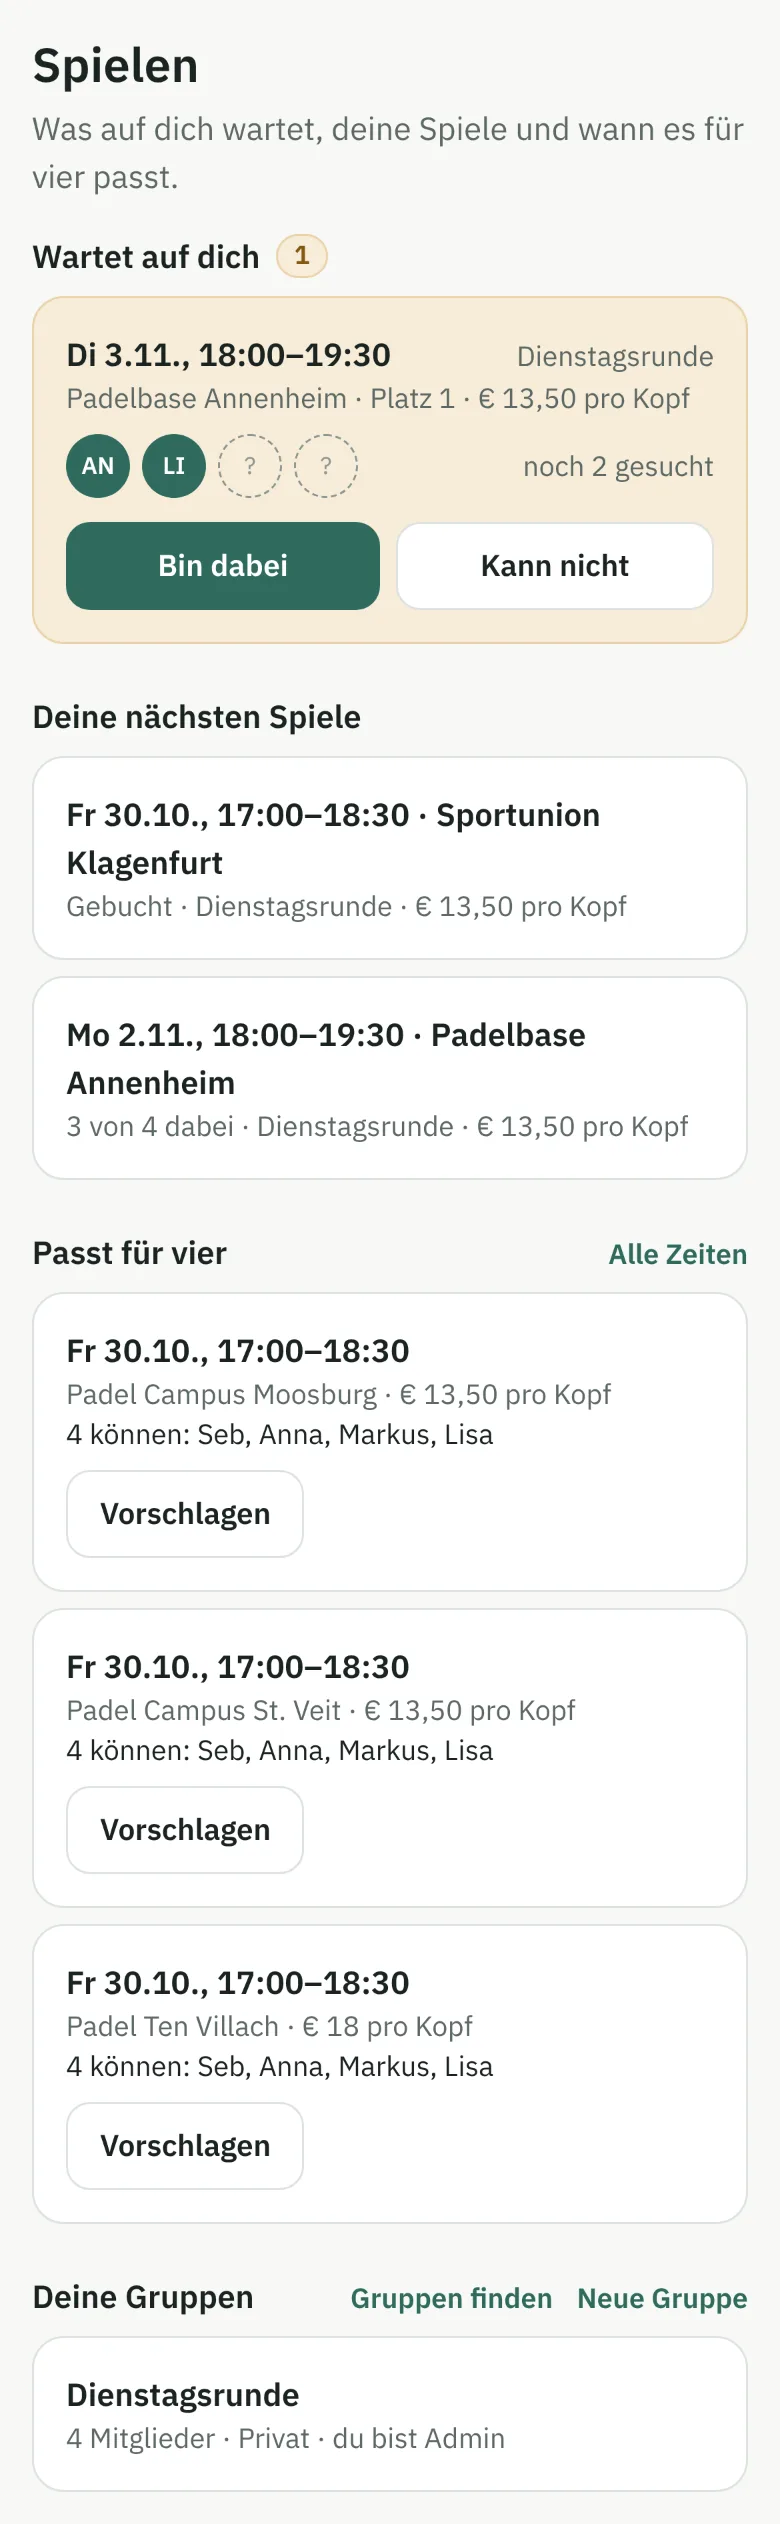
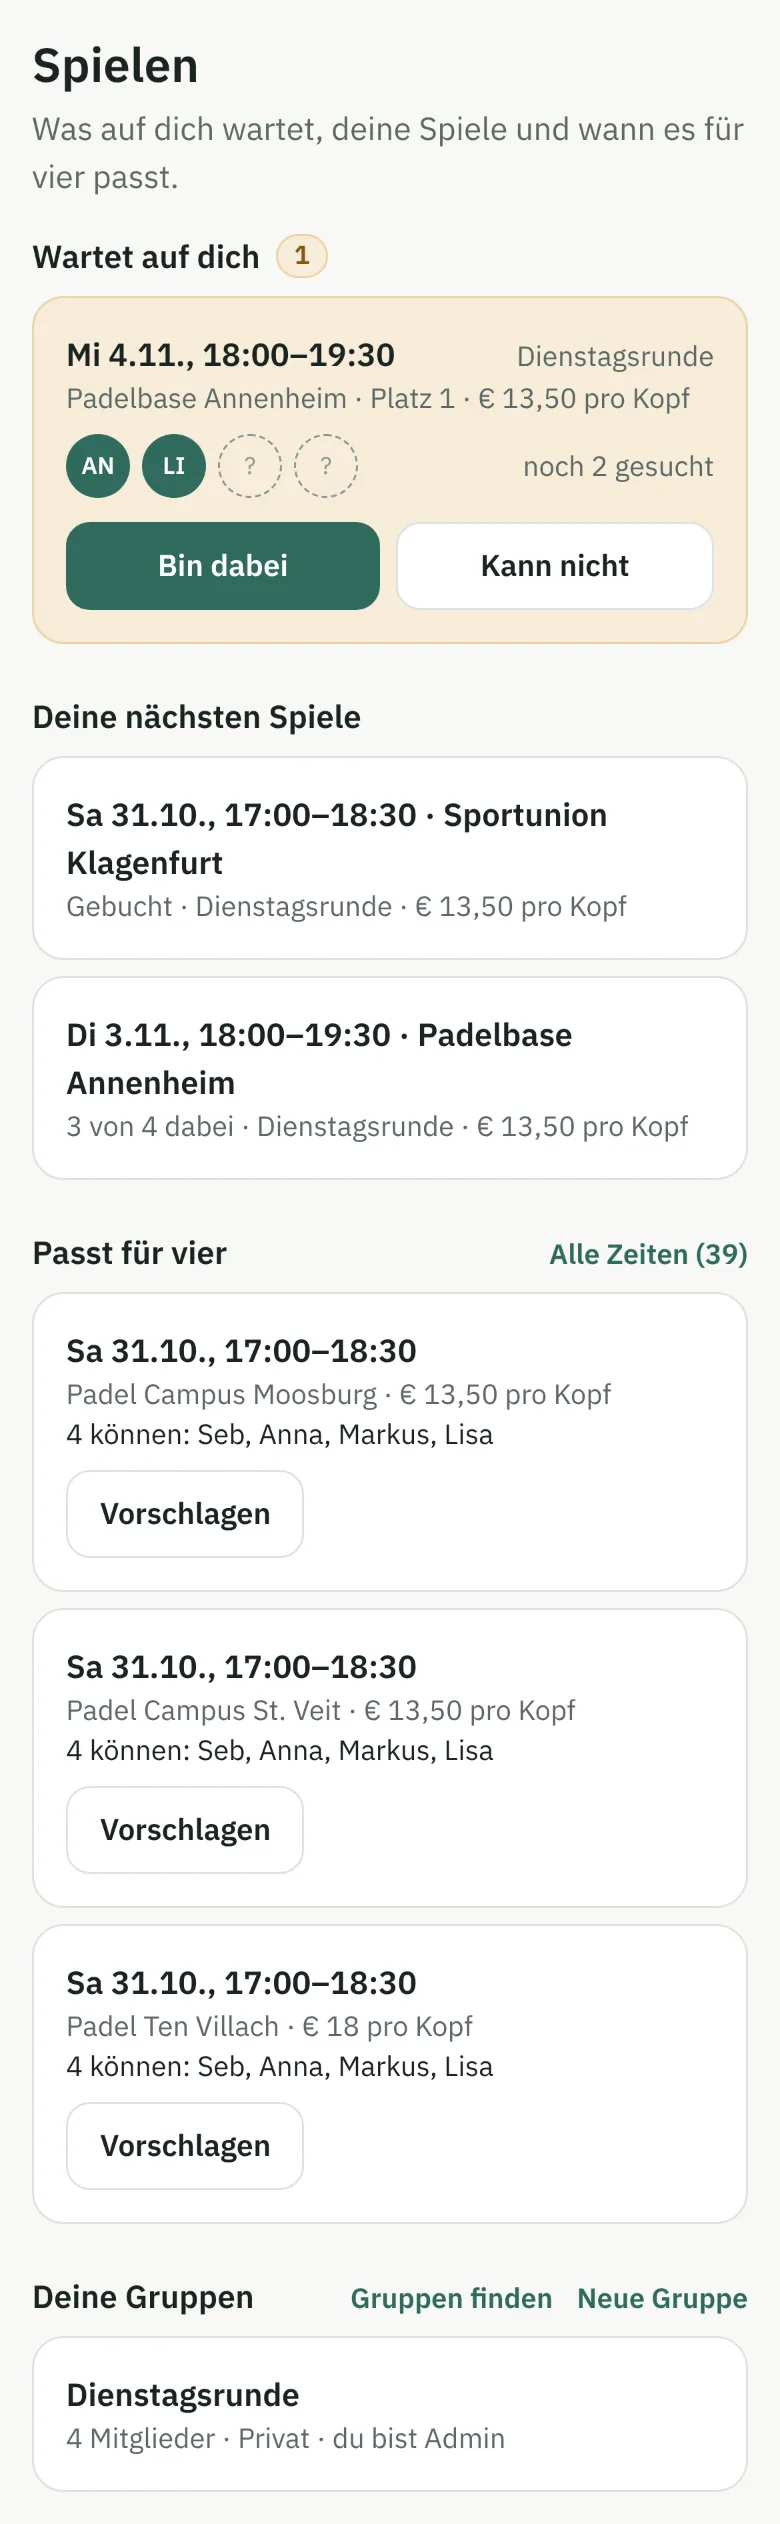
Alle Zeiten on Spielen opens every fit in a sheet
Why: Feedback #67 (Seb): Alle Zeiten on Spielen led into one group's
fits page, which made no sense there. Under Deine Gruppen, Gruppen finden
and Neue Gruppe wrapped to two lines on an iPhone and touched the card.
What: BestFits on Spielen shows Alle Zeiten (n) only when there are more
than three fits and opens them all, by day and from every group, in the
app's Sheet with Vorschlagen; the group's page keeps its link to its own
fits. The heading rows wrap as a whole and their links never break.
Hilfe text, help pictures of Spielen, games.md and a release note.
Checked: vitest (games, groups, App); phone screenshots light/dark and
at 320 px wide.
Thread: https://claude.ai/code/project/chan_014QcPHgeozJeG7xkT5y7Ejh?thread=cmsg_014QcPHgeozJeG7xkT5y7EjhWdLZYyvkfzftA1Ze1owgPe

diff --git a/services/app/src/games/BestFits.tsx b/services/app/src/games/BestFits.tsx
@@ -1,12 +1,17 @@
 // Passt für vier on Spielen (Seb, 2026-10-29): the soonest times, from
 // every group one is in, where four can and a court is free, one tap from
-// proposing; on a group's page the same for that group alone. The whole
-// list stays at the group's "Wann passt es für vier?" (Alle Zeiten).
+// proposing; on a group's page the same for that group alone. Alle Zeiten
+// on Spielen opens the whole list from every group in a sheet (Seb,
+// 2026-10-30: a link into one group's page made no sense there), shown only
+// when there is more than the three; on a group's page it is the group's
+// "Wann passt es für vier?".
 // Times already proposed as a game are left out. 90 minutes, the default
 // there; the snapshot is not refreshed here, the schedule keeps it fresh.
 import { useMutation, useQueries, useQuery, useQueryClient } from "@tanstack/react-query";
+import { useState } from "react";
 import { Link, useNavigate } from "react-router";
 import { api, ApiError, call, useWriteKey, type Fit } from "../api/client";
+import { Sheet } from "../Sheet";
 import { card, link, quiet } from "../ui";
 import { clock, dayLabel, errorText, euros, shown, span, useGames } from "./games";
 
@@ -38,6 +43,7 @@ export function BestFits({ group }: { group?: number }) {
     })),
   });
   const games = useGames();
+  const [all, setAll] = useState(false);
 
   const key = useWriteKey();
   const propose = useMutation({
@@ -72,29 +78,39 @@ export function BestFits({ group }: { group?: number }) {
       .filter((g) => g.state !== "cancelled")
       .map((g) => `${g.groupId}/${g.venueId}/${g.court}/${g.day}/${g.start}`),
   );
-  const picks: Pick[] = fits
+  const every: Pick[] = fits
     .flatMap((q, i) =>
       (q.data?.fits ?? []).map((f) => ({ f, groupId: mine[i]!.id, groupName: mine[i]!.name })),
     )
     .filter(
       (p) => !proposed.has(`${p.groupId}/${p.f.venueId}/${p.f.court}/${p.f.day}/${p.f.start}`),
     )
-    .sort((a, b) => a.f.day.localeCompare(b.f.day) || a.f.start - b.f.start)
-    .slice(0, SHOWN);
+    .sort((a, b) => a.f.day.localeCompare(b.f.day) || a.f.start - b.f.start);
+  const picks = every.slice(0, SHOWN);
   const loading = fits.some((q) => q.isPending);
   const failed = fits.length > 0 && fits.every((q) => q.isError);
   const one = mine.length === 1 ? mine[0]! : undefined;
 
   return (
     <section className="mb-6" aria-labelledby="best-fits">
-      <div className="mb-2 flex items-baseline justify-between">
+      <div className="mb-2 flex flex-wrap items-baseline justify-between gap-x-3">
         <h2 id="best-fits" className="font-semibold">
           Passt für vier
         </h2>
-        {one && (
-          <Link to={`/groups/${one.id}/fits`} className={`${link} text-sm`}>
+        {group !== undefined ? (
+          <Link to={`/groups/${group}/fits`} className={`${link} text-sm whitespace-nowrap`}>
             Alle Zeiten
           </Link>
+        ) : (
+          every.length > SHOWN && (
+            <button
+              type="button"
+              className={`${link} text-sm whitespace-nowrap`}
+              onClick={() => setAll(true)}
+            >
+              Alle Zeiten ({every.length})
+            </button>
+          )
         )}
       </div>
       {loading && picks.length === 0 && (
@@ -118,44 +134,87 @@ export function BestFits({ group }: { group?: number }) {
           </Link>
         </p>
       )}
-      {picks.length > 0 && (
-        <ul className="space-y-2">
-          {picks.map((p) => (
-            <li
-              key={`${p.groupId}-${p.f.venueId}-${p.f.court}-${p.f.day}-${p.f.start}`}
-              className={`${card} flex flex-wrap items-center justify-between gap-2 p-4`}
-            >
-              <div className="min-w-0">
-                <div className="font-semibold">
-                  {dayLabel(p.f.day)}, {span(p.f.start, p.f.minutes)}
-                </div>
-                <div className="text-sm text-ink-muted">
-                  {p.f.venueName}
-                  {p.f.perHead && ` · ${euros(p.f.perHead.amount)} pro Kopf`}
-                  {!one && ` · ${p.groupName}`}
-                </div>
-                <div className="text-sm">
-                  {p.f.can.length} können: {p.f.can.map(shown).join(", ")}
-                </div>
-              </div>
-              <button
-                type="button"
-                className={quiet}
-                disabled={propose.isPending}
-                aria-label={`${dayLabel(p.f.day)} ${clock(p.f.start)} in ${p.f.venueName} vorschlagen`}
-                onClick={() => propose.mutate(p)}
-              >
-                Vorschlagen
-              </button>
-            </li>
-          ))}
-        </ul>
-      )}
-      {propose.isError && (
+      {picks.length > 0 && <ul className="space-y-2">{picks.map((p) => row(p, true, !one))}</ul>}
+      {propose.isError && !all && (
         <p role="alert" className="mt-2 text-sm text-danger-text">
           {errorText(propose.error)}
         </p>
       )}
+      {all && (
+        <Sheet label="Alle passenden Zeiten" wide="float" onClose={() => setAll(false)}>
+          <h2 className="mb-1 text-lg font-semibold">Alle passenden Zeiten</h2>
+          <p className="mb-3 text-sm text-ink-muted">
+            {MINUTES} Minuten{mine.length > 1 ? ", aus all deinen Gruppen" : ""}.
+          </p>
+          {propose.isError && (
+            <p role="alert" className="mb-3 text-sm text-danger-text">
+              {errorText(propose.error)}
+            </p>
+          )}
+          {byDay(every).map(([day, list]) => (
+            <section key={day} className="mb-4">
+              <h3 className="mb-2 font-semibold">{dayLabel(day)}</h3>
+              <ul className="space-y-2">{list.map((p) => row(p, false, !one))}</ul>
+            </section>
+          ))}
+          <p className="mb-3 text-sm text-ink-muted">
+            Andere Längen, und wo nur eine Person fehlt:{" "}
+            {mine.map((g, i) => (
+              <span key={g.id}>
+                {i > 0 && ", "}
+                <Link to={`/groups/${g.id}/fits`} className={link}>
+                  {g.name}
+                </Link>
+              </span>
+            ))}
+          </p>
+          <button type="button" className={quiet} onClick={() => setAll(false)}>
+            Schließen
+          </button>
+        </Sheet>
+      )}
     </section>
   );
+
+  function row(p: Pick, withDay: boolean, withGroup: boolean) {
+    return (
+      <li
+        key={keyOf(p)}
+        className={`${card} flex flex-wrap items-center justify-between gap-2 p-4`}
+      >
+        <div className="min-w-0">
+          <div className="font-semibold">
+            {withDay && `${dayLabel(p.f.day)}, `}
+            {span(p.f.start, p.f.minutes)}
+            {!withDay && ` · ${p.f.venueName}`}
+          </div>
+          <div className="text-sm text-ink-muted">
+            {withDay ? p.f.venueName : p.f.court}
+            {p.f.perHead && ` · ${euros(p.f.perHead.amount)} pro Kopf`}
+            {withGroup && ` · ${p.groupName}`}
+          </div>
+          <div className="text-sm">
+            {p.f.can.length} können: {p.f.can.map(shown).join(", ")}
+          </div>
+        </div>
+        <button
+          type="button"
+          className={quiet}
+          disabled={propose.isPending}
+          aria-label={`${dayLabel(p.f.day)} ${clock(p.f.start)} in ${p.f.venueName} vorschlagen`}
+          onClick={() => propose.mutate(p)}
+        >
+          Vorschlagen
+        </button>
+      </li>
+    );
+  }
+}
+
+const keyOf = (p: Pick) => `${p.groupId}-${p.f.venueId}-${p.f.court}-${p.f.day}-${p.f.start}`;
+
+function byDay(picks: Pick[]): [string, Pick[]][] {
+  const by = new Map<string, Pick[]>();
+  for (const p of picks) by.set(p.f.day, [...(by.get(p.f.day) ?? []), p]);
+  return [...by.entries()];
 }

diff --git a/services/app/src/games/Spielen.test.tsx b/services/app/src/games/Spielen.test.tsx
@@ -231,10 +231,7 @@ describe("BestFits", () => {
       },
     });
     at(<BestFits />);
-    expect(await screen.findByRole("link", { name: "Alle Zeiten" })).toHaveAttribute(
-      "href",
-      "/groups/1/fits",
-    );
+    expect(screen.queryByRole("button", { name: /Alle Zeiten/ })).toBeNull();
     await userEvent.click(await screen.findByRole("button", { name: /vorschlagen/ }));
     expect(await screen.findByRole("alert")).toHaveTextContent("Der Platz ist inzwischen weg.");
     expect(await screen.findByText(/Gerade passt nichts für vier/)).toBeInTheDocument();
@@ -242,6 +239,55 @@ describe("BestFits", () => {
       "href",
       "/availability",
     );
+  });
+
+  it("opens every fitting time from all groups in a sheet", async () => {
+    const calls: Sent[] = [];
+    serve(
+      {
+        "GET /api/v1/groups": () =>
+          answer(200, { items: [summary(1, "Dienstagsrunde"), summary(2, "Mittwochsliga")] }),
+        "GET /api/v1/groups/1/fits": () =>
+          fits([fit({ day: "2026-11-05" }), fit({ day: "2026-11-05", start: 1230 })]),
+        "GET /api/v1/groups/2/fits": () =>
+          fits([fit({ day: "2026-11-01" }), fit({ day: "2026-11-07" })]),
+        "GET /api/v1/games": () => answer(200, { items: [] }),
+        "POST /api/v1/groups/1/games": () => answer(201, game({ id: 13, groupId: 1 })),
+      },
+      calls,
+    );
+    const { router } = at(<BestFits />);
+    await userEvent.click(await screen.findByRole("button", { name: "Alle Zeiten (4)" }));
+    const sheet = screen.getByRole("dialog", { name: "Alle passenden Zeiten" });
+    expect(
+      within(sheet)
+        .getAllByRole("heading", { level: 3 })
+        .map((h) => h.textContent),
+    ).toEqual(["So 1.11.", "Do 5.11.", "Sa 7.11."]);
+    expect(within(sheet).getAllByRole("listitem")).toHaveLength(4);
+    expect(within(sheet).getByRole("link", { name: "Mittwochsliga" })).toHaveAttribute(
+      "href",
+      "/groups/2/fits",
+    );
+    await userEvent.click(
+      within(sheet).getByRole("button", { name: "Do 5.11. 20:30 in Padel Villach vorschlagen" }),
+    );
+    await waitFor(() => expect(router.state.location.pathname).toBe("/games/13"));
+  });
+
+  it("closes the sheet", async () => {
+    serve({
+      "GET /api/v1/groups": () => answer(200, { items: [summary(1, "Dienstagsrunde")] }),
+      "GET /api/v1/groups/1/fits": () =>
+        fits(["2026-11-01", "2026-11-02", "2026-11-03", "2026-11-04"].map((day) => fit({ day }))),
+      "GET /api/v1/games": () => answer(200, { items: [] }),
+    });
+    at(<BestFits />);
+    await userEvent.click(await screen.findByRole("button", { name: "Alle Zeiten (4)" }));
+    const sheet = screen.getByRole("dialog");
+    expect(within(sheet).getAllByRole("listitem")[0]).not.toHaveTextContent("Dienstagsrunde");
+    await userEvent.click(within(sheet).getByRole("button", { name: "Schließen" }));
+    expect(screen.queryByRole("dialog")).toBeNull();
   });
 
   it("keeps to one group on its page", async () => {

diff --git a/services/app/src/help/chapters.tsx b/services/app/src/help/chapters.tsx
@@ -210,7 +210,8 @@ export const CHAPTERS: Chapter[] = [
           geantwortet hast, mit {b("Bin dabei")} und {b("Kann nicht")} gleich auf der Karte, und
           Einladungen in Gruppen. Darunter {b("Deine nächsten Spiele")}, bei denen du dabei oder
           Ersatz bist, und {b("Passt für vier")}: die nächsten passenden Zeiten aus all deinen
-          Gruppen, zum Vorschlagen mit einem Tipp. Alle Spiele einer Gruppe stehen auf ihrer Seite.
+          Gruppen, zum Vorschlagen mit einem Tipp. Gibt es mehr als drei, öffnet {b("Alle Zeiten")}{" "}
+          sie alle, nach Tagen. Alle Spiele einer Gruppe stehen auf ihrer Seite.
         </p>
       </>
     ),

diff --git a/services/app/src/groups/Play.tsx b/services/app/src/groups/Play.tsx
@@ -107,9 +107,9 @@ export function Play({
 
       {groups.data && (
         <section>
-          <div className="mb-2 flex items-baseline justify-between">
+          <div className="mb-2 flex flex-wrap items-baseline justify-between gap-x-3 gap-y-1">
             <h2 className="font-semibold">Deine Gruppen</h2>
-            <span className="flex gap-3">
+            <span className="flex gap-3 whitespace-nowrap">
               <Link to="/groups" className={`${link} text-sm`}>
                 Gruppen finden
               </Link>

diff --git a/docs/design/games.md b/docs/design/games.md
@@ -50,7 +50,11 @@
   the places as rounds (`Seats`); "Deine nächsten Spiele" (`Upcoming`)
   only those they are in or a reserve for; "Passt für vier" (`BestFits`)
   the three soonest 90-minute fits from all their groups, leaving out
-  times already a game, with Vorschlagen. Nothing new in the API: the
+  times already a game, with Vorschlagen. Alle Zeiten (shown only when
+  there are more than three) opens all of them, by day and from every
+  group, in the app's sheet; never one group's page, which made no sense
+  on Spielen (Seb, 2026-10-30). Each group's own fits (other lengths,
+  near misses) are linked from the bottom of the sheet. Nothing new in the API: the
   lineup says who answered, and the fits are asked per group. A snapshot older than five minutes is refreshed once when
   the fits open, as on the courts. The group screens get the games as
   props from `App.tsx`, so the slices stay apart.

diff --git a/release_notes/2026-10-30-alle-zeiten.md b/release_notes/2026-10-30-alle-zeiten.md
@@ -1,0 +1,13 @@
+---
+date: 2026-10-30
+area: play
+title: „Alle Zeiten“ zeigt alle Zeiten aus all deinen Gruppen
+link: /play
+---
+Unter **Spielen** öffnet **Alle Zeiten** neben „Passt für vier“ jetzt
+eine Liste von unten: alle passenden Zeiten aus all deinen Gruppen, nach
+Tagen, und jede mit einem Tipp vorgeschlagen. Der Link erscheint, sobald
+es mehr als die drei gezeigten Zeiten gibt.
+
+„Gruppen finden“ und „Neue Gruppe“ stehen am Handy wieder sauber in
+einer Zeile.
